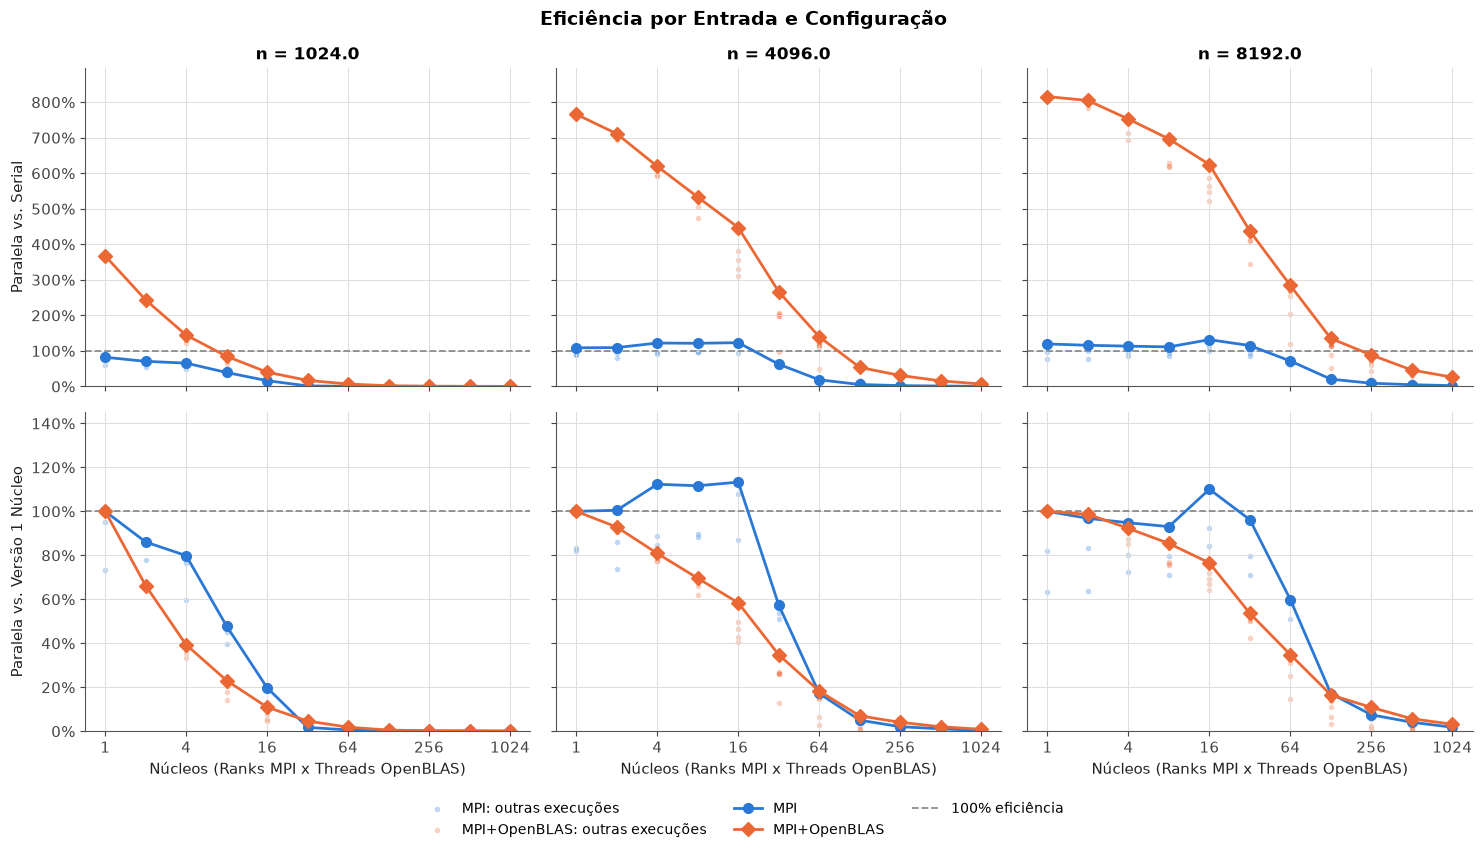
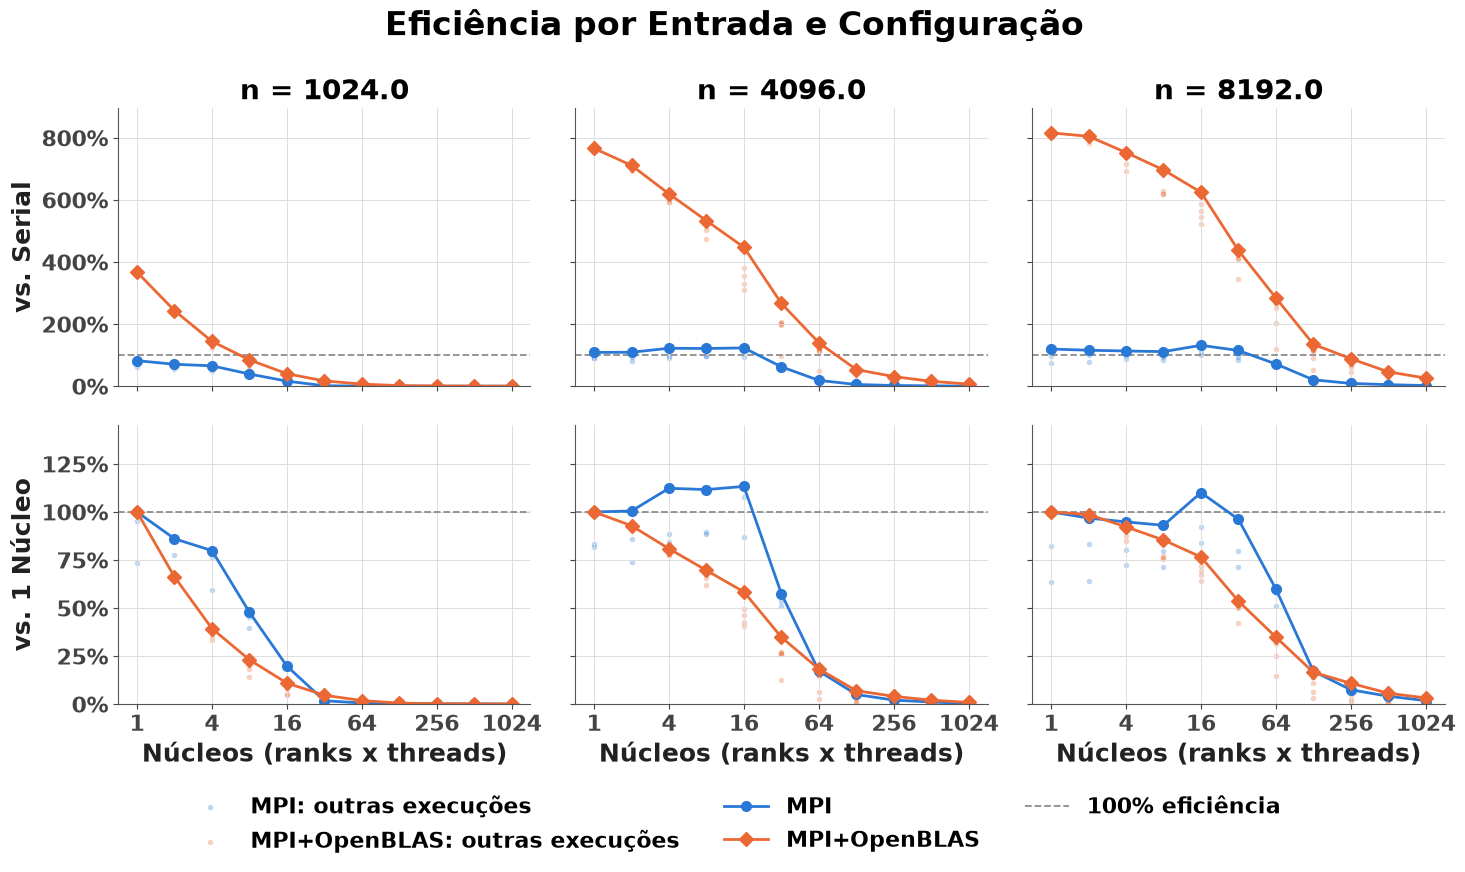
chore: Adjust the font size of the figures

diff --git a/scripts/generate_graphs.py b/scripts/generate_graphs.py
@@ -1,8 +1,13 @@
 import argparse
+import logging
 from pathlib import Path
 
 import matplotlib.pyplot as plt
 import pandas as pd
+
+# A negrito global faz o matplotlib procurar o peso bold nas fontes de math
+# text, que não o têm; o aviso é inofensivo, pois nenhum gráfico usa math text.
+logging.getLogger("matplotlib.font_manager").setLevel(logging.ERROR)
 
 ROOT = Path(__file__).resolve().parents[1]
 
@@ -69,10 +74,14 @@ def best_configs(agg):
 def setup_style():
     plt.rcParams.update(
         {
-            "font.size": 11,
-            "axes.titlesize": 12,
+            "font.size": 17,
+            "font.weight": "bold",
+            "axes.labelweight": "bold",
+            "axes.titlesize": 20,
             "axes.titleweight": "bold",
-            "axes.labelsize": 11,
+            "axes.labelsize": 18,
+            "xtick.labelsize": 16,
+            "ytick.labelsize": 16,
             "axes.edgecolor": "#555555",
             "axes.labelcolor": INK,
             "axes.spines.top": False,
@@ -82,9 +91,9 @@ def setup_style():
             "grid.linewidth": 0.7,
             "xtick.color": "#444444",
             "ytick.color": "#444444",
-            "legend.fontsize": 10,
+            "legend.fontsize": 16,
             "legend.frameon": False,
-            "figure.titlesize": 14,
+            "figure.titlesize": 24,
             "figure.titleweight": "bold",
             "figure.facecolor": "white",
             "savefig.facecolor": "white",
@@ -94,7 +103,7 @@ def setup_style():
     )
 
 
-def cores_axis(ax, label="Núcleos (Ranks MPI x Threads OpenBLAS)"):
+def cores_axis(ax, label="Núcleos (ranks x threads)"):
     ax.set_xscale("log", base=2)
     ax.set_xticks([1, 4, 16, 64, 256, 1024])
     ax.xaxis.set_major_formatter(lambda v, _: f"{v:g}")
@@ -183,7 +192,7 @@ def fig_speedup(best, agg):
             if v == "mpi":
                 xytext, coords, ha = (0.03, 0.04), "axes fraction", "left"
             else:
-                xytext, coords = (0, 36), "offset points"
+                xytext, coords = (0, 24), "offset points"
                 ha = "right" if top["cores"] >= 256 else "center"
             ax.annotate(
                 text,
@@ -192,7 +201,7 @@ def fig_speedup(best, agg):
                 textcoords=coords,
                 ha=ha,
                 va="bottom",
-                fontsize=9,
+                fontsize=13,
                 color=INK,
                 bbox={
                     "boxstyle": "round,pad=0.2",
@@ -211,12 +220,12 @@ def fig_speedup(best, agg):
 
         cores_axis(ax)
         ax.set_yscale("log")
-        ax.set_ylim(0.1, 3000)
+        ax.set_ylim(0.1, 10000)
         ax.set_title(f"n = {n}")
     axes[0].set_ylabel("Speedup (log)")
 
     handles, labels = axes[0].get_legend_handles_labels()
-    fig.legend(handles, labels, loc="lower center", ncol=3, bbox_to_anchor=(0.5, -0.12))
+    fig.legend(handles, labels, loc="lower center", ncol=3, bbox_to_anchor=(0.5, -0.13))
     fig.suptitle("Speedup em Relação a Serial")
     fig.tight_layout()
     return fig
@@ -248,13 +257,13 @@ def fig_efficiency(best, agg):
 
     axes[0, 0].set_ylim(0, agg["efficiency"].max() * 1.1)
     axes[1, 0].set_ylim(0, max(1.45, agg["rel_eff"].max() * 1.1))
-    axes[0, 0].set_ylabel("Paralela vs. Serial")
-    axes[1, 0].set_ylabel("Paralela vs. Versão 1 Núcleo")
+    axes[0, 0].set_ylabel("vs. Serial")
+    axes[1, 0].set_ylabel("vs. 1 Núcleo")
 
     handles, labels = axes[0, 0].get_legend_handles_labels()
     handles.append(plt.Line2D([], [], color=REF, ls="--", lw=1.3))
     labels.append("100% eficiência")
-    fig.legend(handles, labels, loc="lower center", ncol=3, bbox_to_anchor=(0.5, -0.07))
+    fig.legend(handles, labels, loc="lower center", ncol=3, bbox_to_anchor=(0.5, -0.1))
     fig.suptitle("Eficiência por Entrada e Configuração")
     fig.tight_layout()
     return fig
@@ -283,11 +292,11 @@ def fig_error_by_version(agg):
                 f"{value:.1E}",
                 ha="center",
                 va="bottom",
-                fontsize=9.5,
+                fontsize=14,
                 color=INK,
             )
         ax.set_xticks(range(len(versions)), labels=[LABELS[v] for v in versions])
-        ax.tick_params(axis="x", length=0)
+        ax.tick_params(axis="x", length=0, labelsize=13)
         ax.grid(axis="x", visible=False)
         ax.set_title(f"n = {n}")
     top = agg[agg["version"] != "mpi_blas"]["max_rel"].max()
